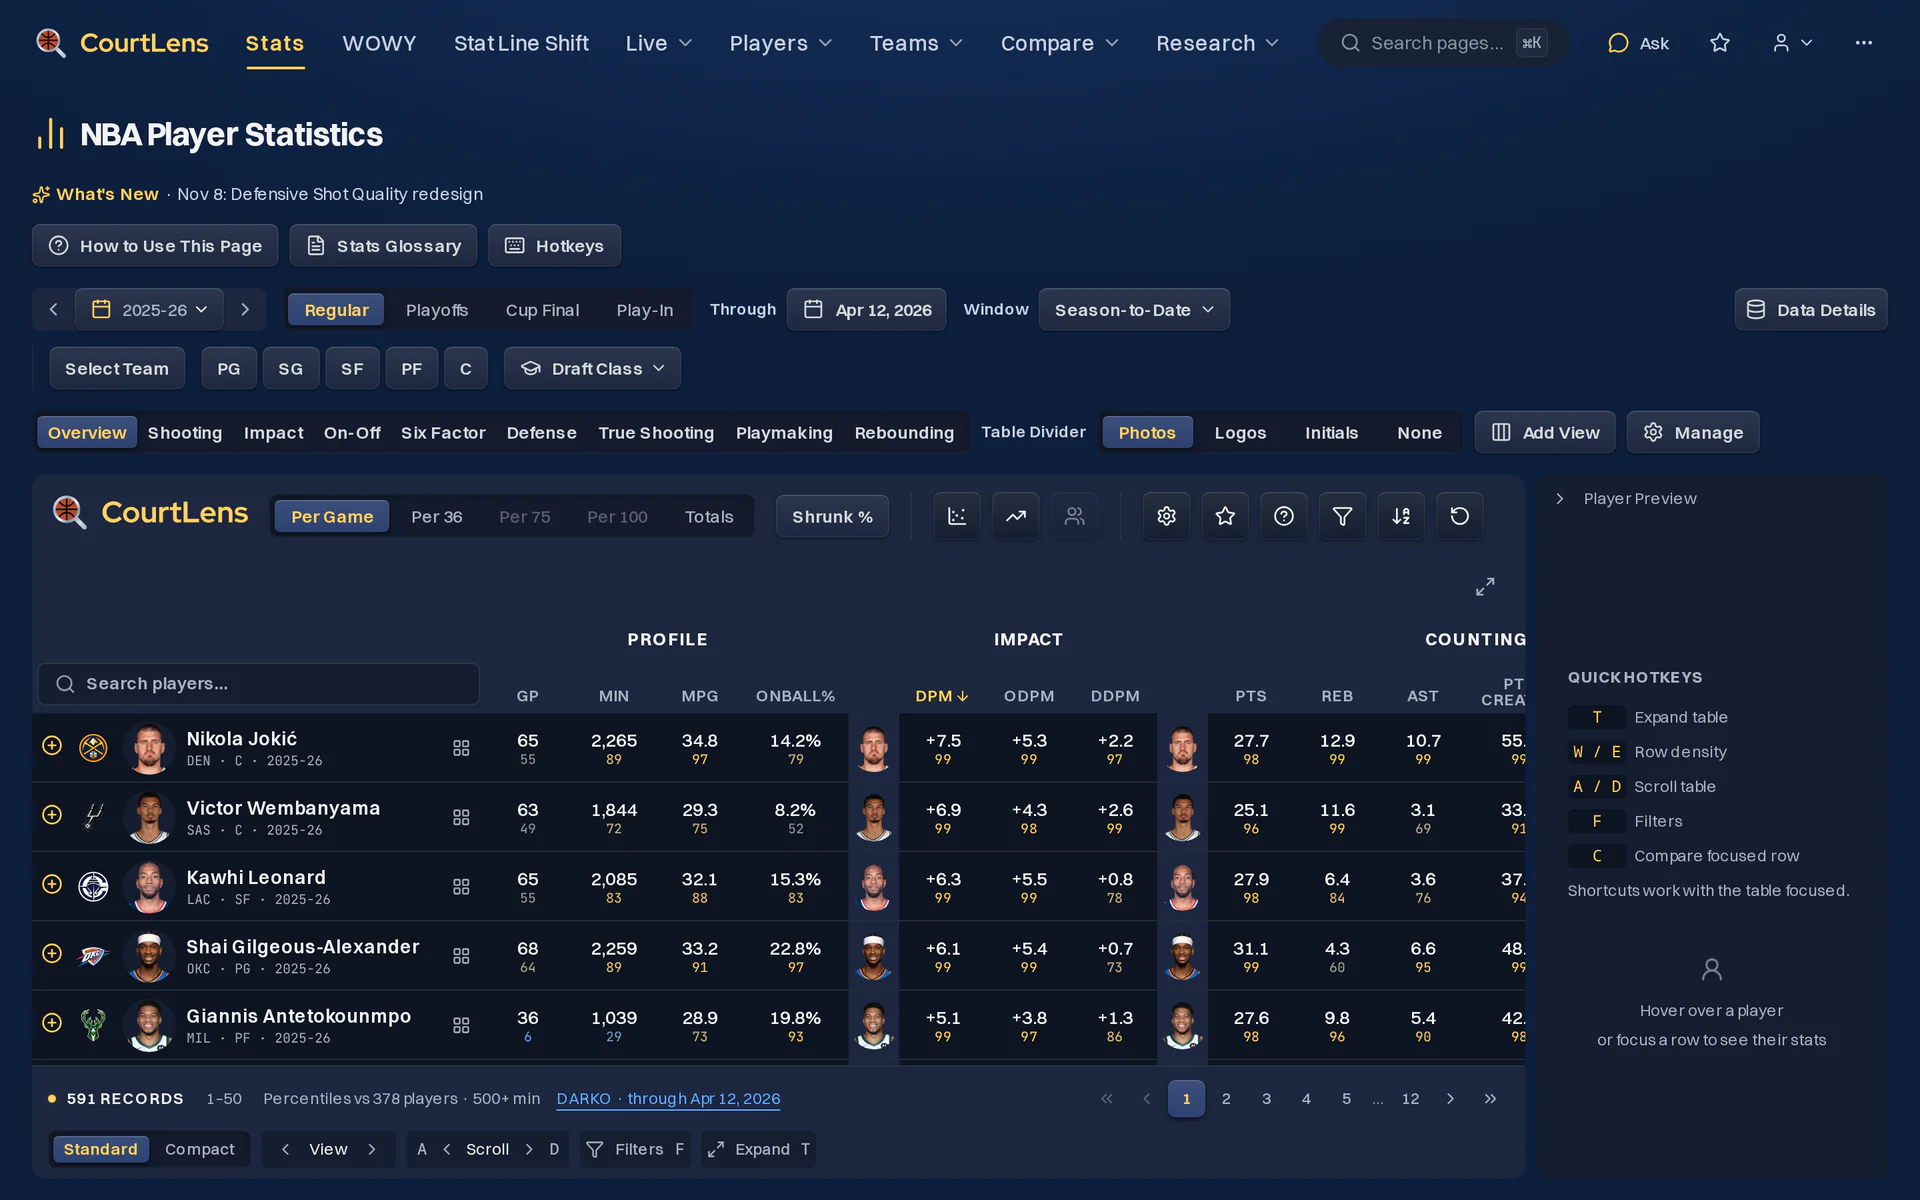
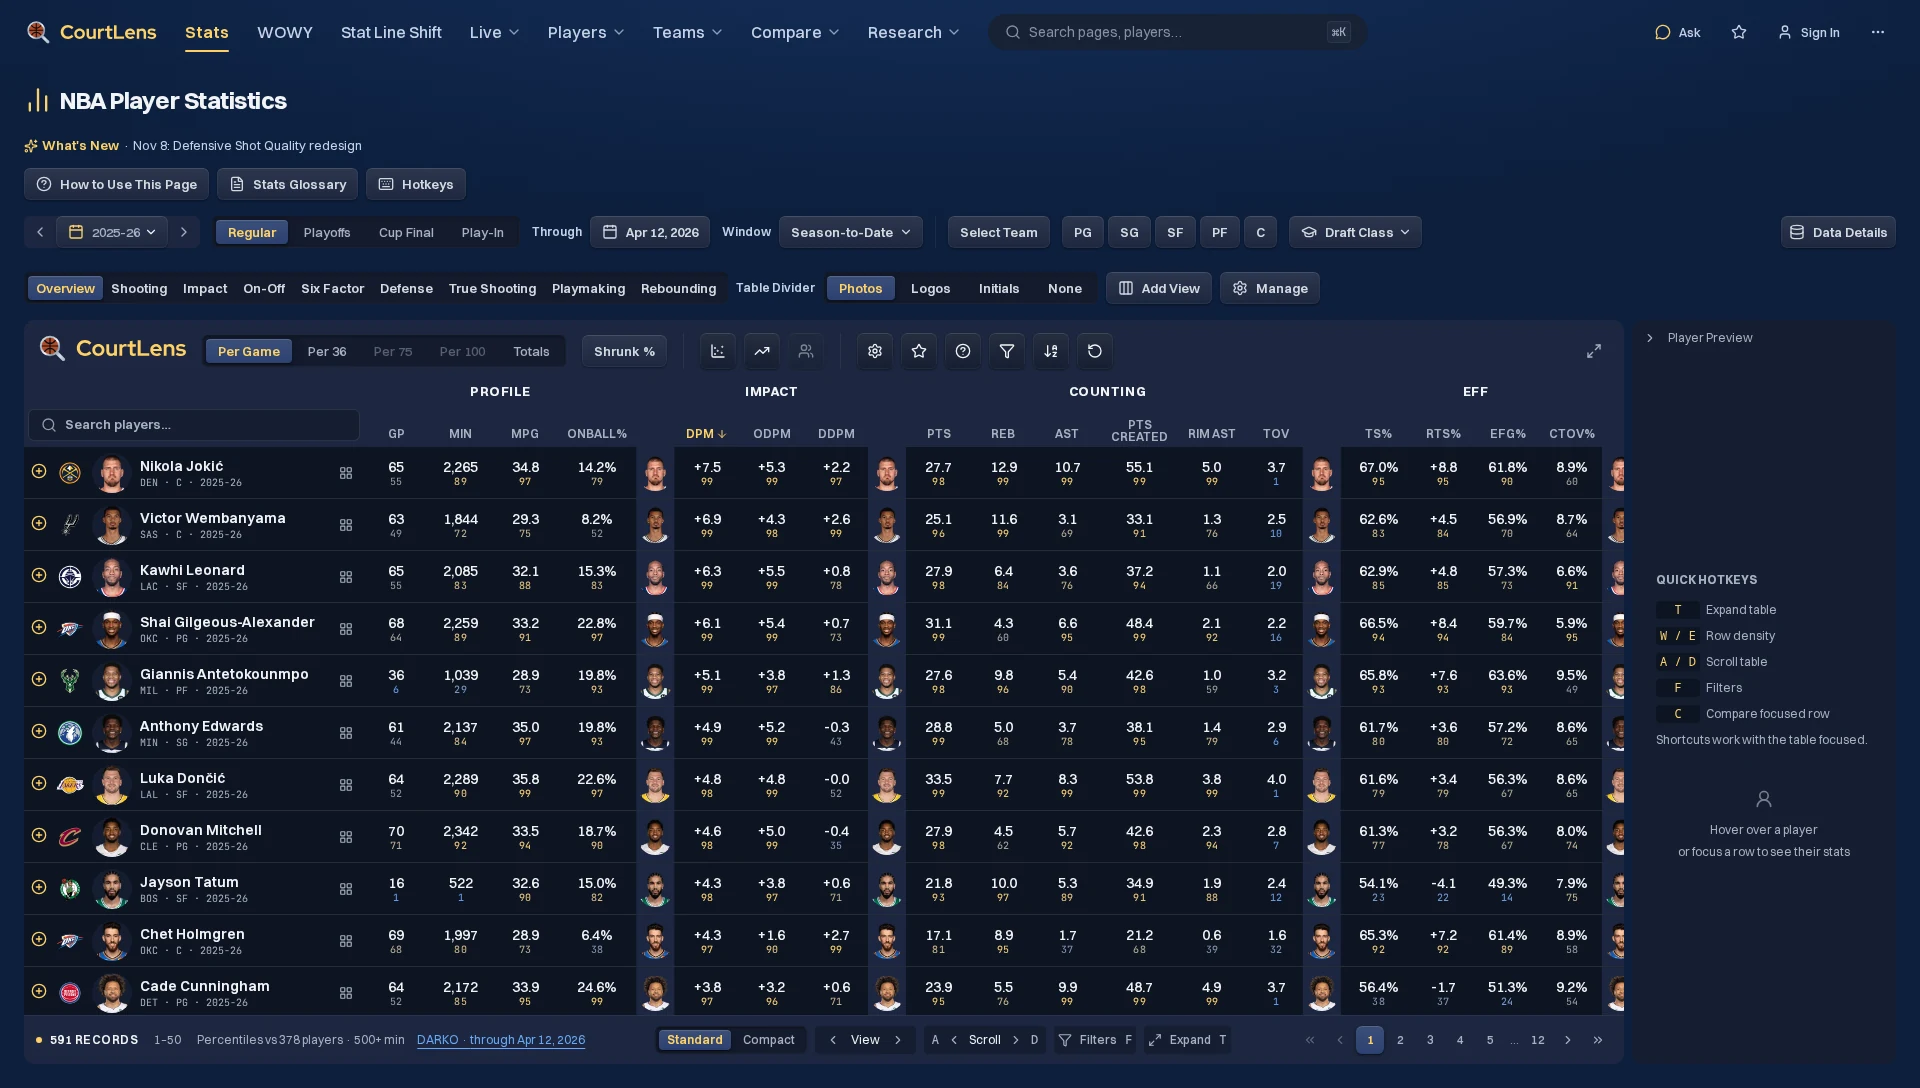
docs(readme): retire superseded results and show the full Stats page
- Drops the Earlier results section (the 10-fold forecast, the first
  assistant baseline and the old cache latency) for one line: the
  forecast protocol was superseded by the frozen points-v1 evaluation
  (MAE 4.643, 80.6% interval coverage), whose boosted challengers failed
  their gates, so the baseline was kept.
- The hero is now the whole 2025-26 Stats page at a plain 1920x1080
  window, captured from the live site, instead of a zoomed, cropped view.
- Calls the hosted site the live site rather than a demo.

diff --git a/README.md b/README.md
@@ -10,17 +10,17 @@ data sits in a versioned PostgreSQL and dbt warehouse behind a FastAPI service a
 dashboard, whose design draws heavily on [Databallr](https://databallr.com) ([credits](#credits)).
 A tool-calling assistant answers questions from the warehouse.
 
-**Live demo: <https://courtlens.calebhabesh.com>**
+**Live site: <https://courtlens.calebhabesh.com>**
 
 <p align="center">
-  <img src="docs/assets/readme/stats.webp" alt="CourtLens Stats page: the 2025-26 player table with impact, counting and percentile columns" width="900">
+  <img src="docs/assets/readme/stats.webp" alt="CourtLens Stats page as served on the live site: the 2025-26 player table with profile, impact, counting and efficiency columns and league percentiles" width="900">
 </p>
 
 ## Status
 
-Finished on 2026-11-13. CourtLens is a non-commercial portfolio project. The public demo serves
+Finished on 2026-11-13. CourtLens is a non-commercial portfolio project. The live site serves
 every page read-only. Signing in (email and password, Google, or the shared demo account) adds
-favorites and Ask, with a few questions a day. One free-tier VPS runs the demo and every scheduled
+favorites and Ask, with a few questions a day. One free-tier VPS runs the site and every scheduled
 data job: rosters every six hours, a daily refresh, weekly impact fits, and win probability seals
 before each tip-off with grading after each final ([deployment guide](docs/deployment.md)). Every
 page was designed against its reference-site counterpart ([catalog](docs/alignment-catalog.md)).
@@ -103,7 +103,7 @@ flowchart LR
 ```
 
 Python 3.12 (FastAPI, SQLAlchemy 2.0, Pydantic), PostgreSQL 17, dbt, scikit-learn, Next.js 16
-with TypeScript, and Docker Compose. The demo runs on an arm64 Oracle Always Free VPS behind Caddy
+with TypeScript, and Docker Compose. The site runs on an arm64 Oracle Always Free VPS behind Caddy
 and a Cloudflare tunnel.
 
 ## Results
@@ -128,17 +128,8 @@ model never saw ([Research progress](docs/research-progress.md)):
   and 2025-26 ([evidence](docs/evidence/research/r05/README.md)).
 - **Ask evaluation (R16):** cut before it finished (owner, 2026-11-13); no number.
 
-Earlier results:
-
-- **Forecasting:** across 10 chronological folds, the prior-season blend scored
-  MAE 4.88 points against a rolling baseline's 5.09. 81.2% of outcomes landed
-  inside the 80% interval ([case studies](docs/evidence/release-case-studies.md)).
-- **Assistant:** on a pinned snapshot, the first Gemini development baseline got
-  70.3% of 360 runs exactly right, checked against independently written SQL
-  ([evaluation](docs/evidence/ar02-evaluation/README.md)).
-- **Speed:** the API read cache serves repeat reads in a 1 ms median (26–135 ms
-  uncached). A warm crawl refills it after every data change
-  ([speed log](docs/speed-progress.md)).
+The earlier points forecast protocol was superseded by the frozen points-v1 evaluation (MAE 4.643,
+80.6% interval coverage); the boosted challengers failed their gates and the baseline was kept.
 
 ## Explore the Project
 
@@ -153,7 +144,7 @@ Earlier results:
 | [`docs/research-progress.md`](docs/research-progress.md) | Every Research model: registration, results and evidence |
 | [`docs/design/design-language-v1.md`](docs/design/design-language-v1.md) | The dashboard's design language |
 | [`docs/operations/runbook.md`](docs/operations/runbook.md) | Setup, refresh, backup and restore |
-| [`docs/deployment.md`](docs/deployment.md) | The hosted demo: Compose stack, scheduled jobs and deploys |
+| [`docs/deployment.md`](docs/deployment.md) | The hosted site: Compose stack, scheduled jobs and deploys |
 
 ## Run Locally
 
